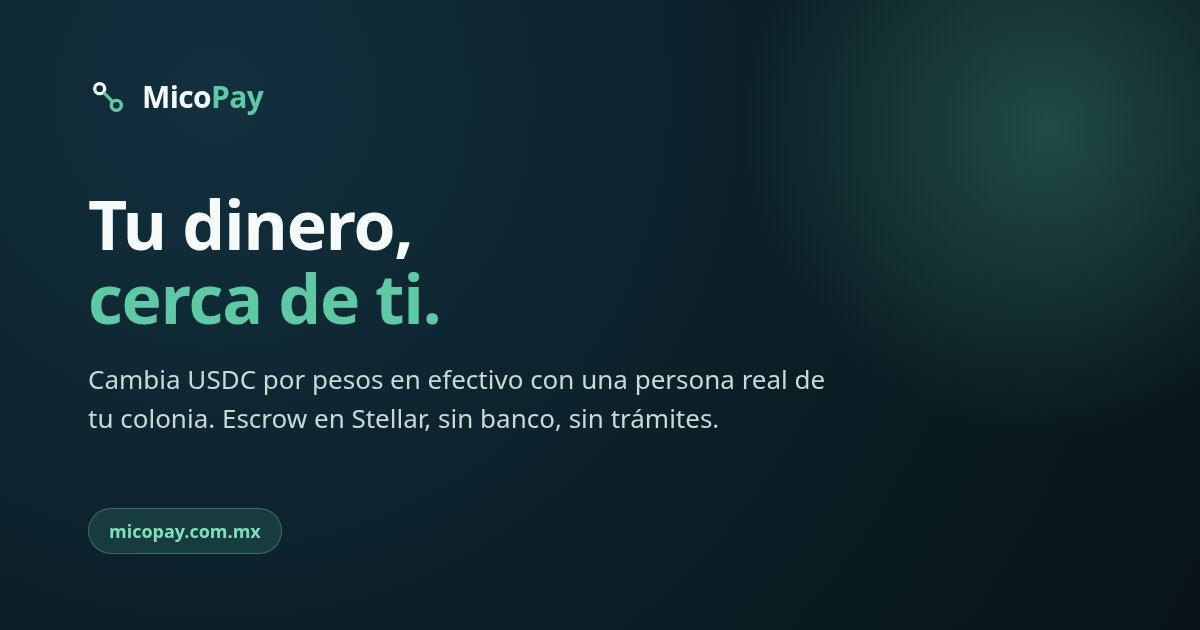
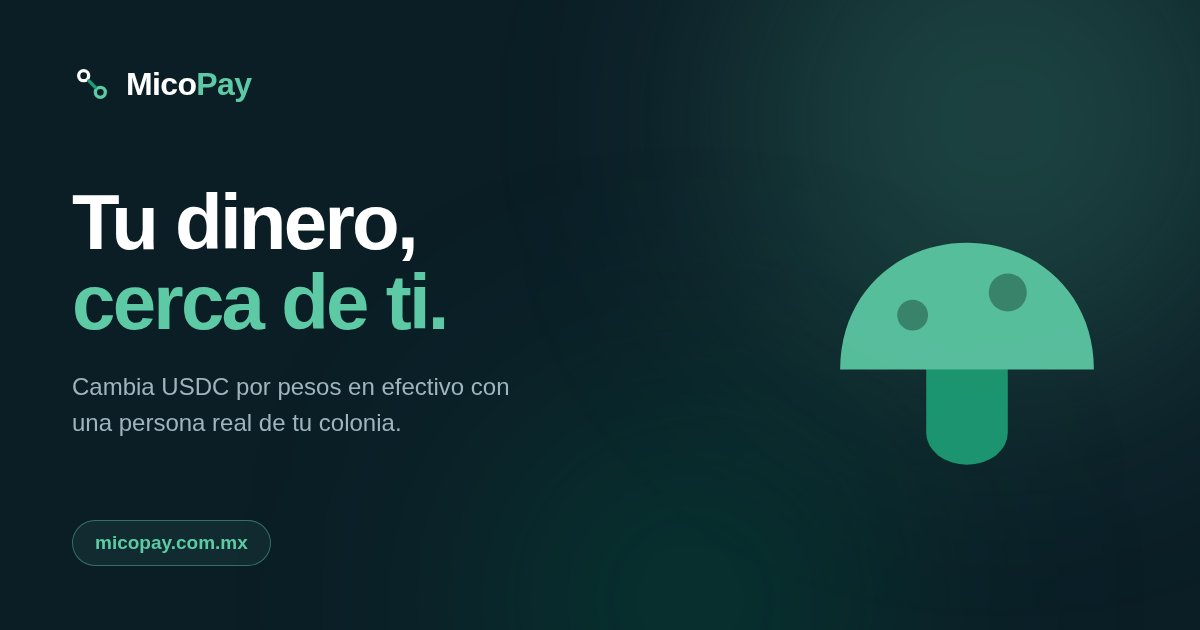
Hongo en el hero y en los assets sociales; quita el claim de 8 minutos
- Hongo en el mapa del hero, rotulado "Red micelial MicoPay". El mapa ya
  representaba la red de proveedores, así que el hongo es uno de sus
  nodos en vez de un adorno pegado encima. Reemplaza el punto decorativo
  que estaba ahí. Proporciones 3:1 sombrero/tallo para que se reconozca
  a 60px.
- Pregunta nueva al inicio del FAQ, "¿Por qué MicoPay?", explicando que
  Mico viene de micelio. El JSON-LD se actualiza en paralelo: el marcado
  de FAQPage tiene que coincidir palabra por palabra con lo visible.
- "Tres pasos, ocho minutos" -> "Tres pasos, sin trámites". Era el último
  lugar con el tiempo de entrega inventado; no hay operaciones todavía.
- Hongo agregado a og.jpg (llena el espacio vacío de la derecha, 37 KB)
  y a apple-touch-icon.png. El favicon se deja con los nodos: a 16px no
  caben las dos formas sin empastarse.

diff --git a/src/components/Conversor.jsx b/src/components/Conversor.jsx
@@ -57,7 +57,20 @@ export default function Conversor() {
             <span className="cv-chip-icon cv-chip-icon--alt"><span className="ms">storefront</span></span>
             <span className="cv-chip-t">0.5 km</span>
           </div>
-          <div className="cv-punto" />
+          {/* Hongo del mapa: cada proveedor es un nodo de la red micelial.
+              Proporciones clásicas para que se reconozca a ~60px — sombrero
+              alto que sobresale, tallo grueso con base ensanchada. El tallo
+              va primero para que el sombrero lo tape y el borde quede limpio.
+              Adorno, no contenido. */}
+          <div className="cv-nodo">
+            <svg className="cv-hongo" viewBox="0 0 64 64" fill="none" aria-hidden="true" focusable="false">
+              <path d="M23 30v17a9 7 0 0 0 18 0V30Z" fill="#1D9E75" />
+              <path d="M4 33C4 16 17 5 32 5s28 11 28 28Z" fill="#5DCAA5" />
+              <circle cx="20" cy="21" r="3.4" fill="#0C2119" opacity=".38" />
+              <circle cx="41" cy="16" r="4.2" fill="#0C2119" opacity=".38" />
+            </svg>
+            <span className="cv-nodo-t">Red micelial MicoPay</span>
+          </div>
         </div>
 
         <div className="cv-panel">
@@ -125,7 +138,16 @@ export default function Conversor() {
         .cv-chip-icon { width: 24px; height: 24px; border-radius: 999px; background: #5DCAA5; display: flex; align-items: center; justify-content: center; font-size: 15px; color: #0B1420; }
         .cv-chip-icon--alt { background: #1D9E75; color: #fff; }
         .cv-chip-t { font-size: 12px; font-weight: 800; color: #5DCAA5; }
-        .cv-punto { position: absolute; bottom: 18%; left: 18%; width: 30px; height: 30px; border-radius: 999px; background: rgba(93,202,165,.25); border: 1px solid rgba(93,202,165,.45); }
+        .cv-nodo {
+          position: absolute; bottom: 8%; left: 8%;
+          display: flex; flex-direction: column; align-items: center; gap: 5px;
+          animation: floaty 8s ease-in-out infinite;
+        }
+        .cv-hongo { width: 58px; height: auto; }
+        .cv-nodo-t {
+          font-size: 9.5px; font-weight: 800; letter-spacing: .08em; text-transform: uppercase;
+          color: #5DCAA5; white-space: nowrap; opacity: .85;
+        }
 
         .cv-panel { padding: 22px 8px 8px; }
         .cv-panel-row { display: flex; align-items: center; justify-content: space-between; margin-bottom: 12px; }

diff --git a/src/components/Faq.jsx b/src/components/Faq.jsx
@@ -5,6 +5,7 @@
 import React from 'react';
 
 const FAQS = [
+  ['¿Por qué MicoPay?', 'Por el micelio: la red de hilos con la que los hongos se conectan bajo tierra y reparten nutrientes entre árboles que nunca se tocan. No hay un centro que mande, y aun así funciona. MicoPay se organiza igual — una red de personas y negocios de tu colonia moviendo efectivo de mano en mano, sin un banco en medio. Cada proveedor es un nodo, y el escrow en Stellar es lo que sostiene la confianza entre desconocidos.'],
   ['¿Cómo funciona el escrow?', 'Al iniciar la operación tus USDC quedan bloqueados en un contrato inteligente. El proveedor solo los cobra cuando confirmas que recibiste tu efectivo. Si no se concreta, el reembolso es automático y completo.'],
   ['¿Cuánto me cuesta?', 'No hay una tarifa única: cada proveedor pone la suya, normalmente entre 1.9% y 2.5%, más una comisión de plataforma pequeña. Antes de aceptar ves el monto exacto en pesos que vas a recibir, ya con todo descontado — nunca hay cobros después.'],
   ['¿Necesito cuenta bancaria?', 'No. MicoPay está diseñado para quien no tiene acceso bancario: solo necesitas una billetera, y la app te ayuda a crearla en un minuto.'],
